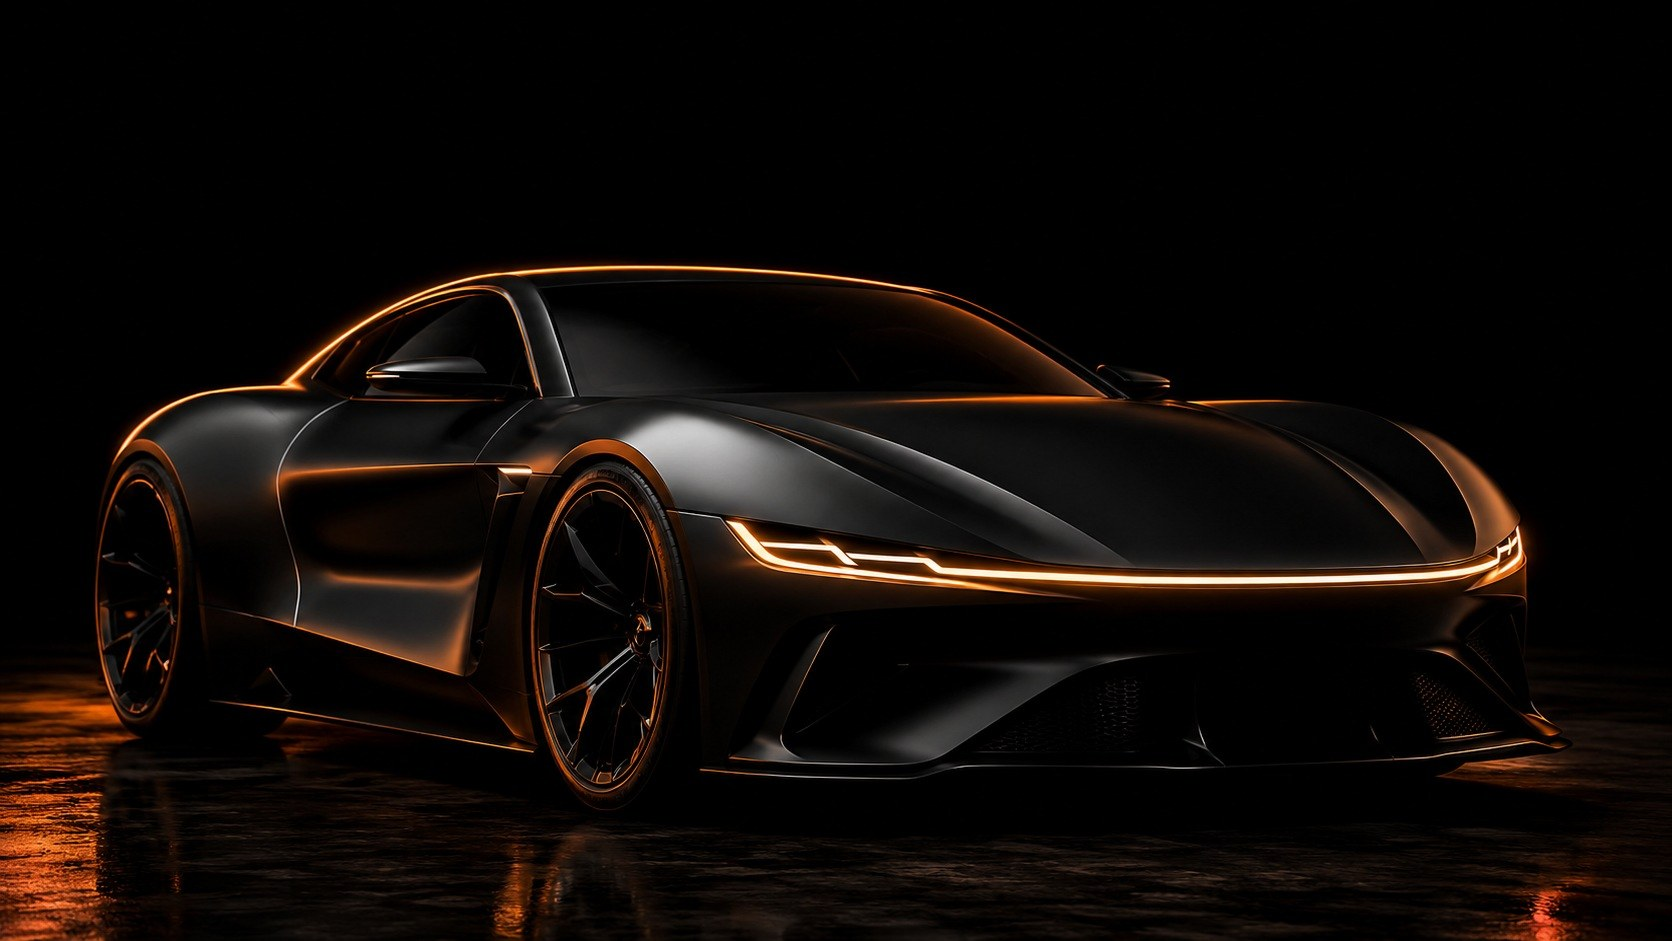
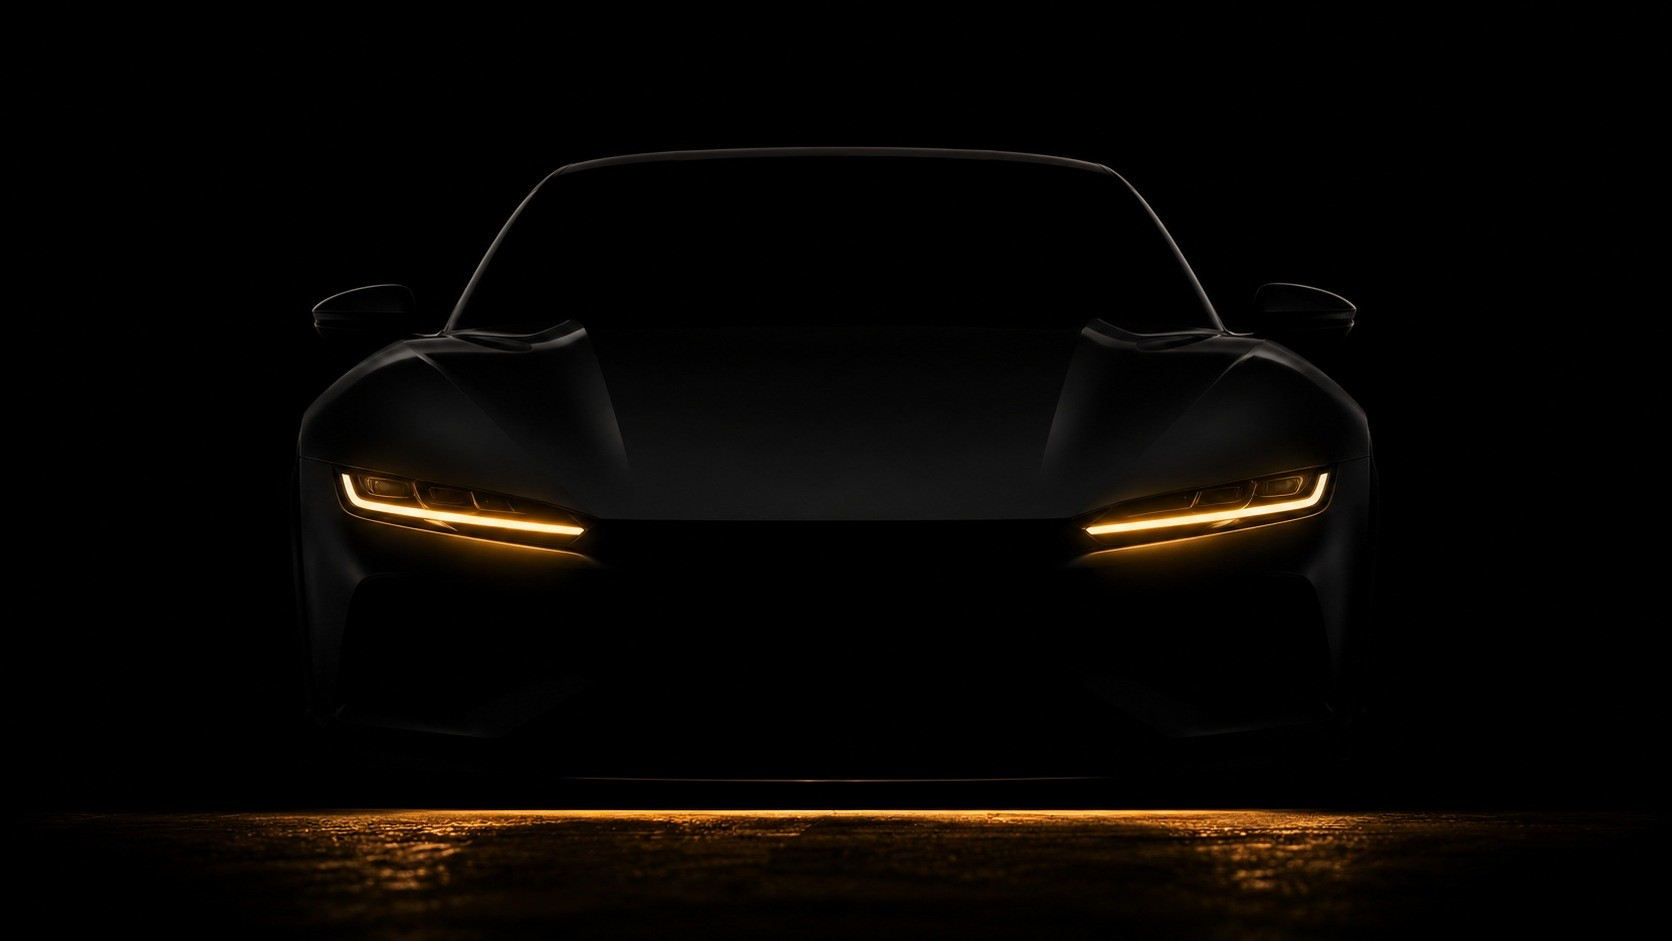
The Watcher hero (amber + EV blue variants)

diff --git a/index.html b/index.html
@@ -152,6 +152,10 @@
   </div>
 </section>
 
+<section style="padding:0;border:none">
+  <img src="assets/hero-ev.jpg" alt="" style="width:100%;display:block;-webkit-mask-image:linear-gradient(#000 70%,transparent);mask-image:linear-gradient(#000 70%,transparent)">
+</section>
+
 <section>
   <div class="wrap">
     <div class="kicker">Principles</div>
